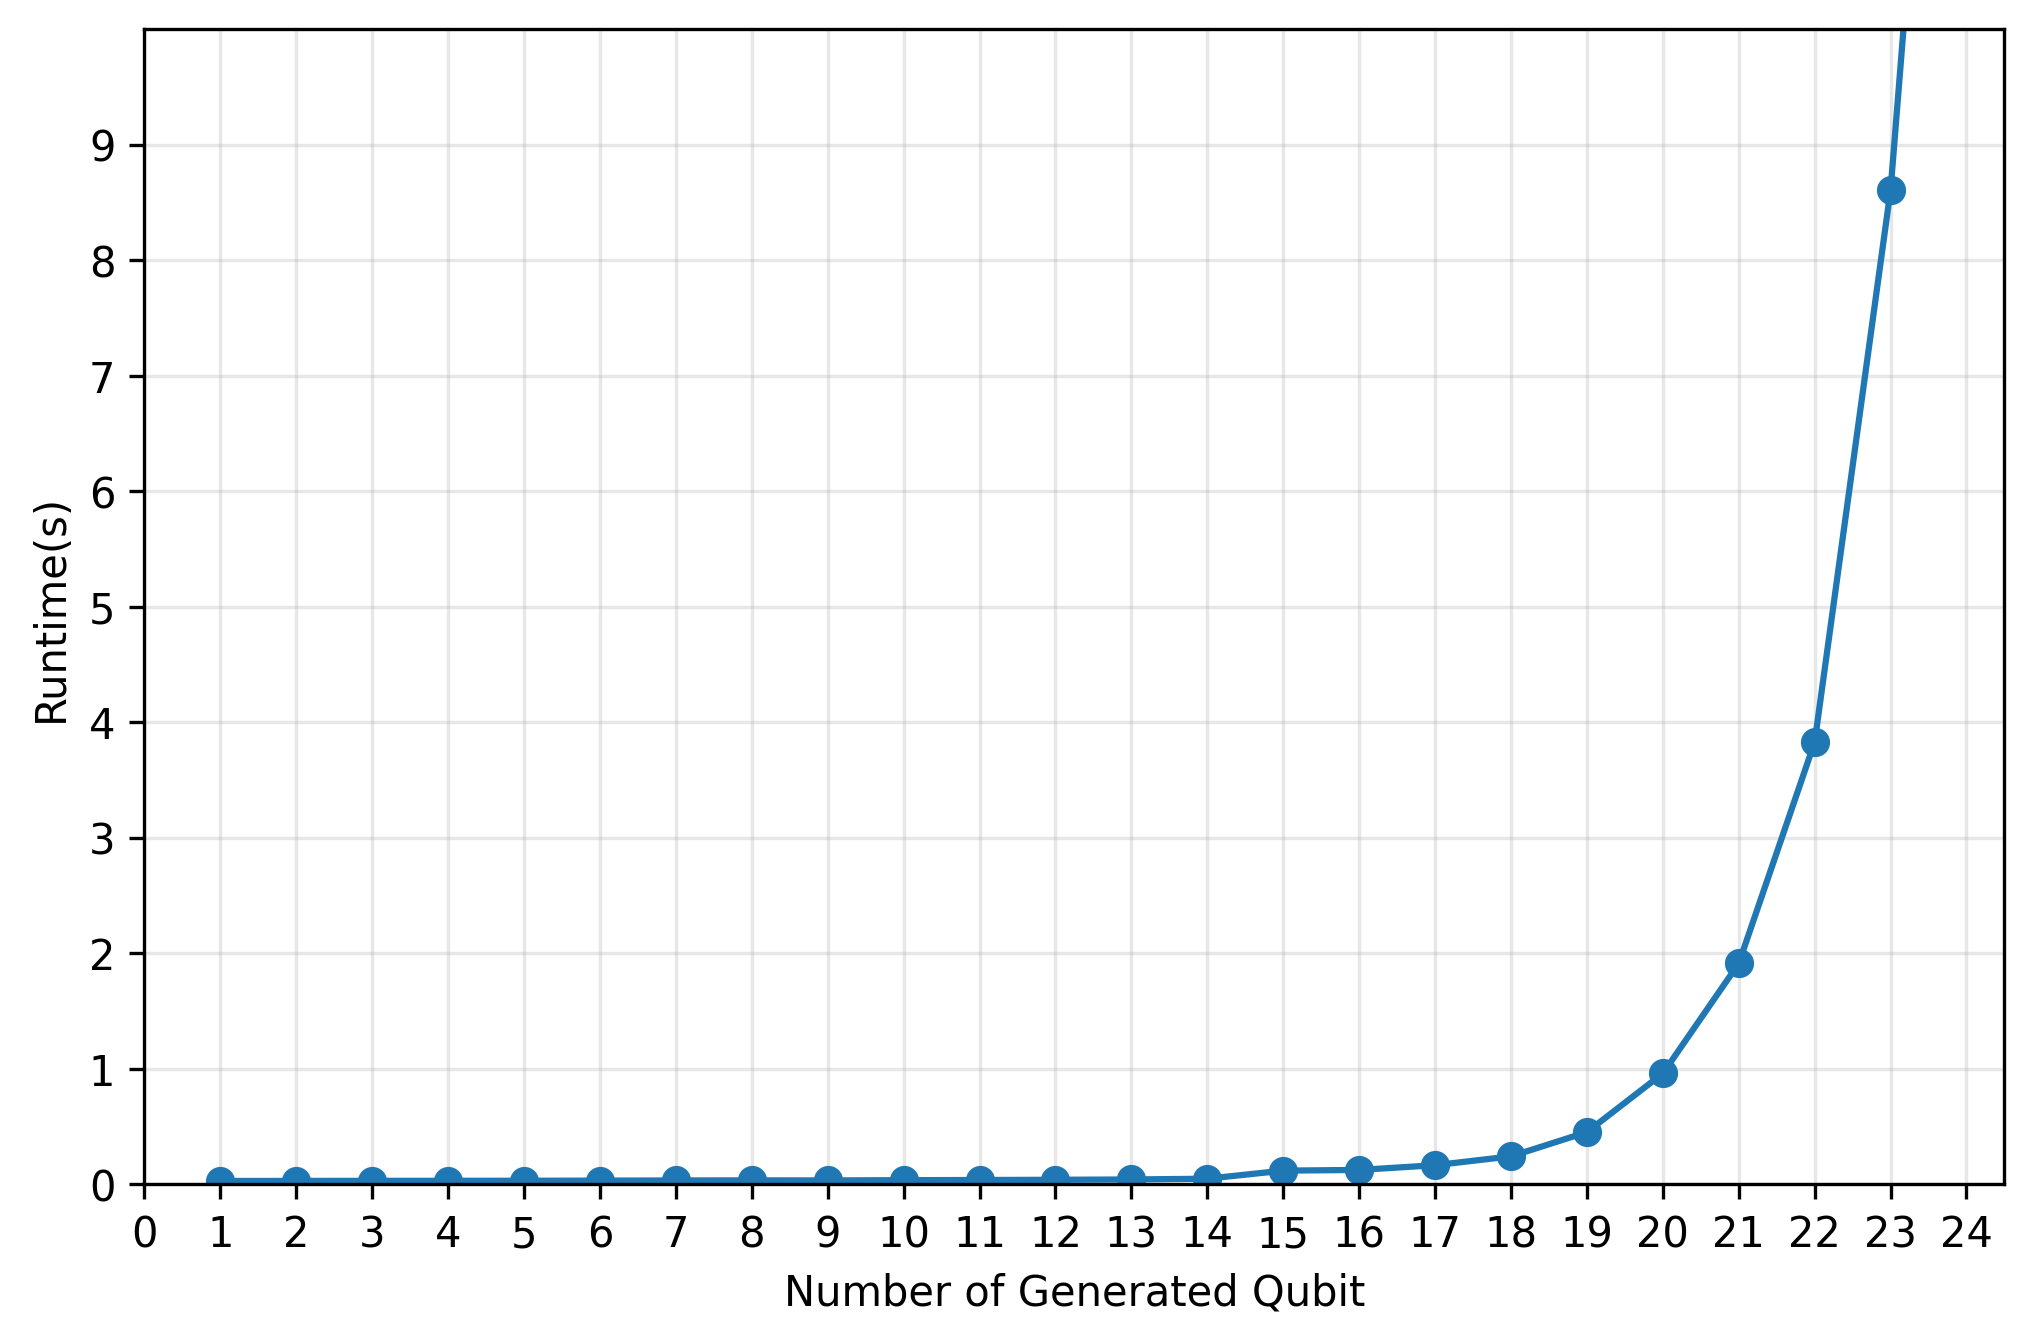
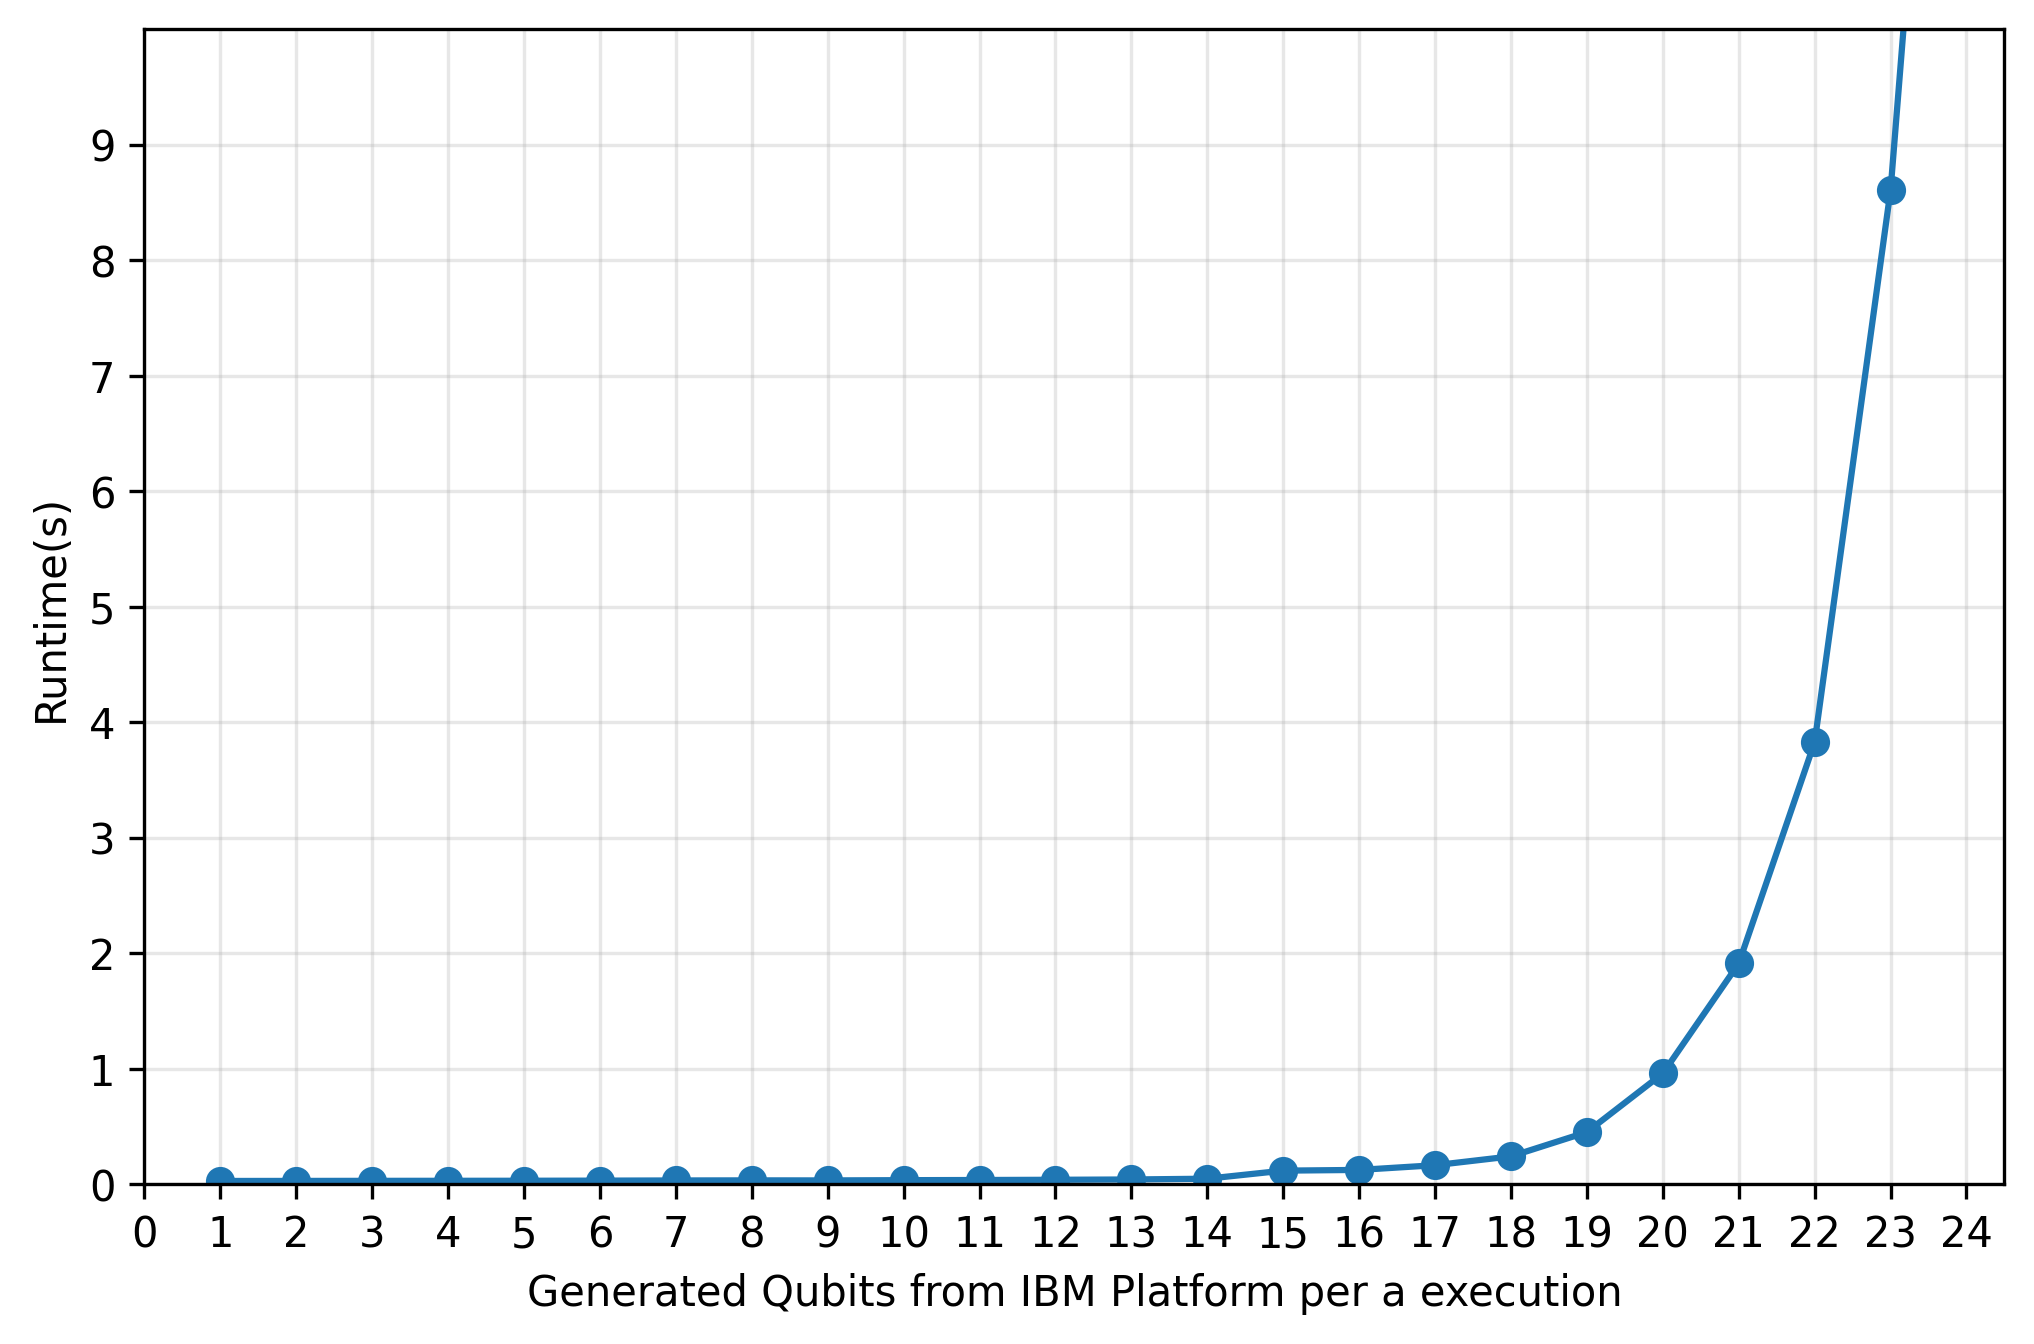
make new figure

Changed region(s): [[0.2478, 0.9375, 0.8053, 1.0]]

diff --git a/figure/qlength_vs_runtime2.py b/figure/qlength_vs_runtime2.py
@@ -17,10 +17,10 @@ plt.ylim(0, 0.2)
 plt.yticks(np.arange(0, 0.2, 0.01))
 plt.xticks(np.arange(0, 16.5, 1))
 
-plt.xlabel(r'Number of Generated Qubit')
+plt.xlabel(r'Generated Qubits from IBM Platform per a execution')
 plt.ylabel(r'Runtime(s)')
 plt.grid(alpha=0.3)
 
-plt.savefig('qlength_vs_keyrate2.png', format='png', bbox_inches="tight", dpi=300)
+plt.savefig('qlength_vs_runtimne2.png', format='png', bbox_inches="tight", dpi=300)
 
 plt.show()

diff --git a/figure/qlength_vs_runtime.py b/figure/qlength_vs_runtime.py
@@ -19,10 +19,10 @@ plt.ylim(0, 10)
 plt.yticks(np.arange(0, 10, 1))
 plt.xticks(np.arange(0, 24.5, 1))
 
-plt.xlabel(r'Number of Generated Qubit')
+plt.xlabel(r'Generated Qubits from IBM Platform per a execution')
 plt.ylabel(r'Runtime(s)')
 plt.grid(alpha=0.3)
 
-plt.savefig('qlength_vs_keyrate.png', format='png', bbox_inches="tight", dpi=300)
+plt.savefig('qlength_vs_runtime.png', format='png', bbox_inches="tight", dpi=300)
 
 plt.show()
